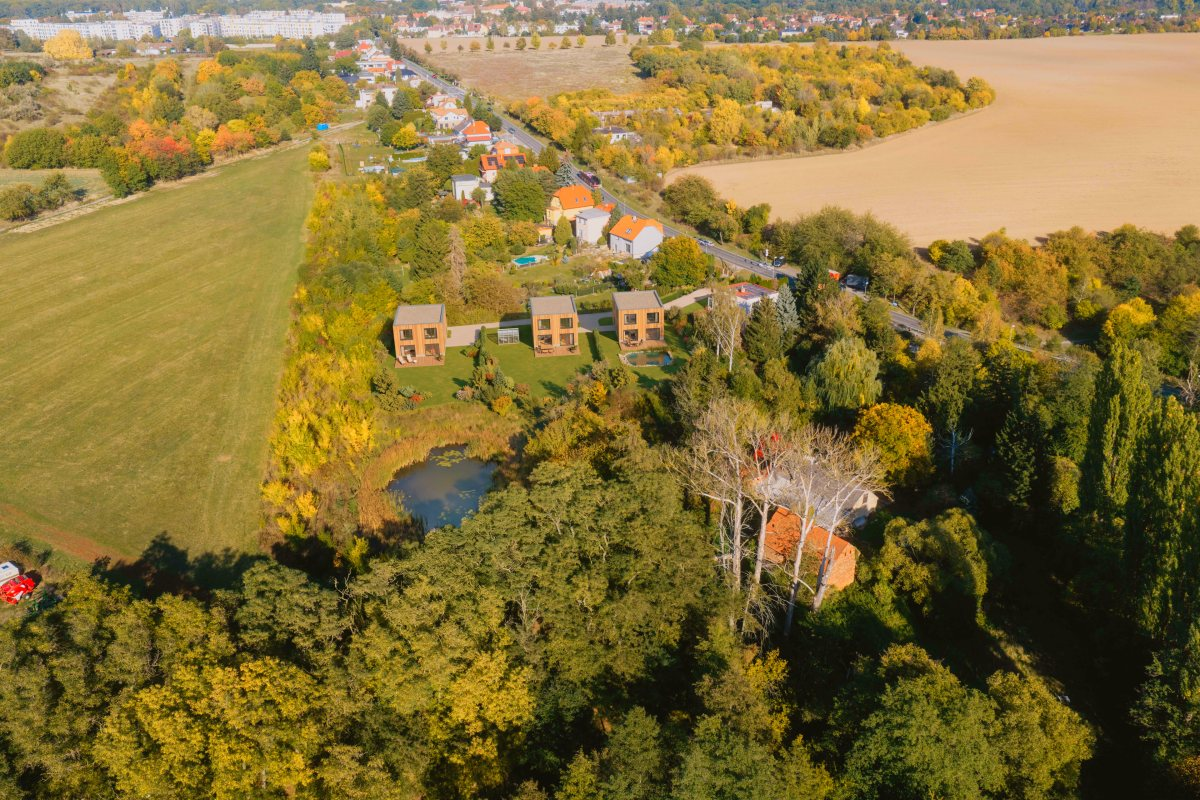
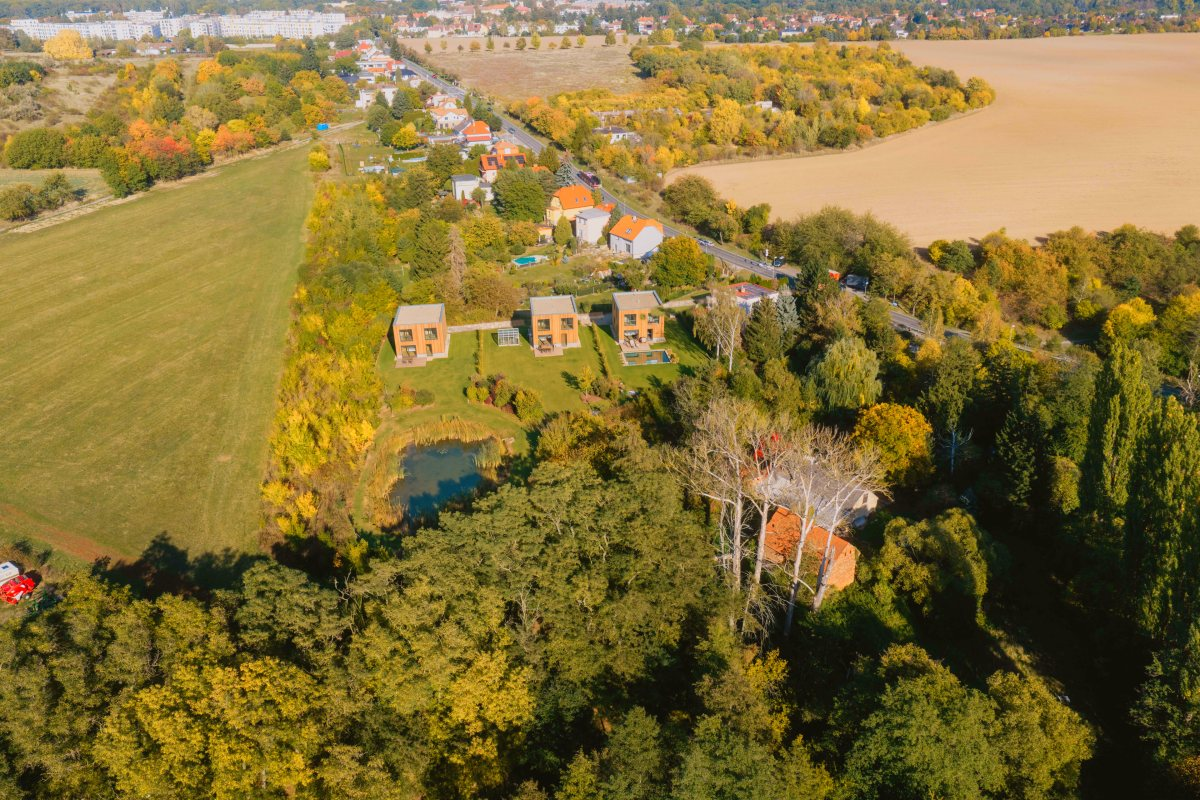
D a E hlavní pohled: rovná cesta podél domů a jen krátké chodníčky podle pohledu shora

Changed region(s): [[0.2775, 0.3438, 0.6167, 0.7812], [0.6475, 0.3438, 0.6783, 0.375]]

diff --git a/final.js b/final.js
@@ -18,7 +18,7 @@ const el = (tag, cls, text) => { const e = document.createElement(tag); if (cls)
 const state = { view: {}, before: {}, approvals: {}, cards: {} };
 function load() { try { state.approvals = JSON.parse(localStorage.getItem(KEY) || '{}') || {}; } catch { state.approvals = {}; } }
 function save() { try { localStorage.setItem(KEY, JSON.stringify(state.approvals)); } catch { /* bez úložiště stránka funguje dál */ } }
-const IMG_V = '4';   // zvýšit při výměně obrázků (prohlížeč jinak drží starý obrázek až 10 min)
+const IMG_V = '5';   // zvýšit při výměně obrázků (prohlížeč jinak drží starý obrázek až 10 min)
 const src = (v, w) => (state.before[v.id] ? `final/pred-${state.view[v.id]}-${w}.jpg` : `final/${v.id}-${state.view[v.id]}-${w}.jpg`) + `?v=${IMG_V}`;
 const viewLabel = id => VIEWS.find(x => x.id === id)?.label || '';
 

diff --git a/index.html b/index.html
@@ -6,9 +6,9 @@
   <meta name="robots" content="noindex,nofollow,noarchive,noimageindex">
   <meta name="referrer" content="no-referrer">
   <title>Finální vizualizace · Pitkovice</title>
-  <link rel="stylesheet" href="styles.css?v=4">
-  <link rel="stylesheet" href="final.css?v=4">
-  <script src="final.js?v=4" defer></script>
+  <link rel="stylesheet" href="styles.css?v=5">
+  <link rel="stylesheet" href="final.css?v=5">
+  <script src="final.js?v=5" defer></script>
 </head>
 <body>
   <main class="shell">
